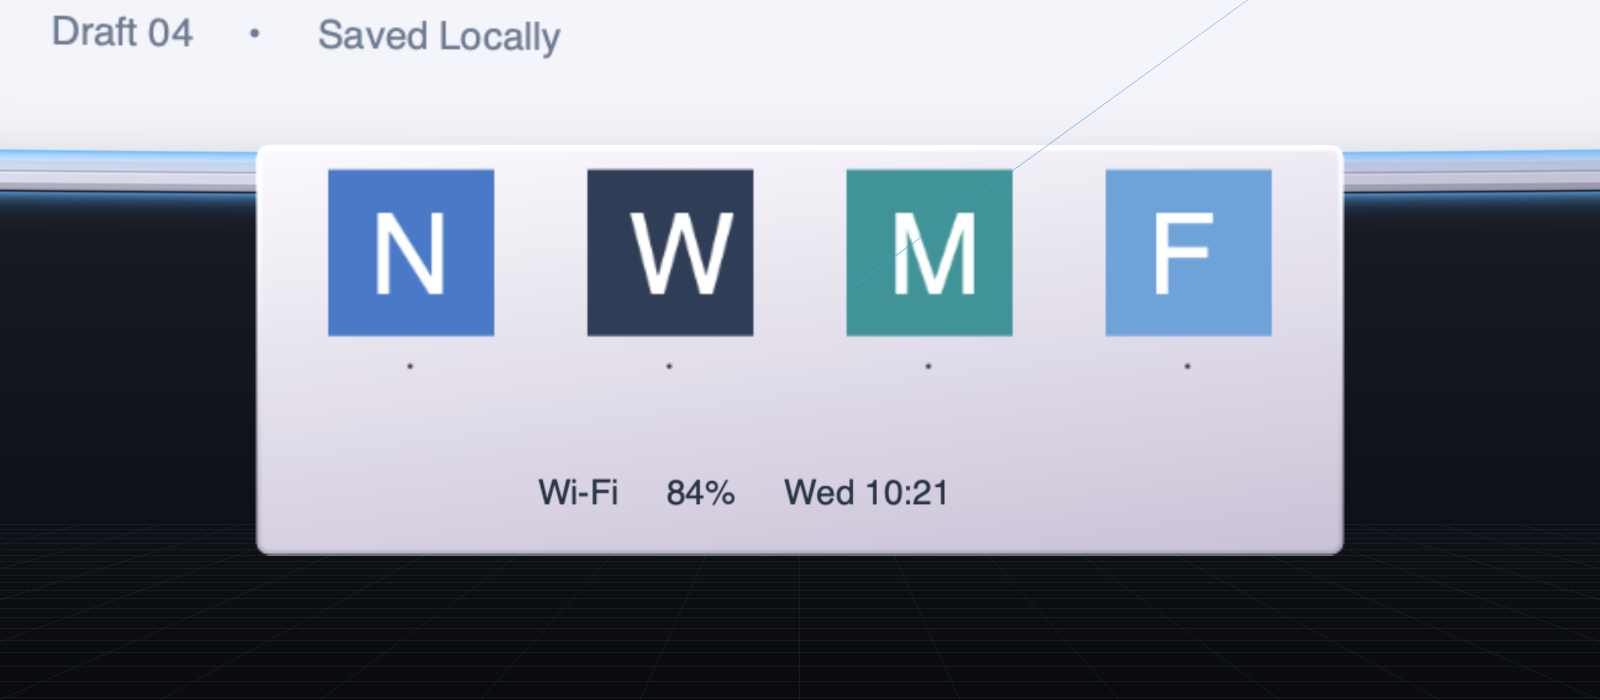
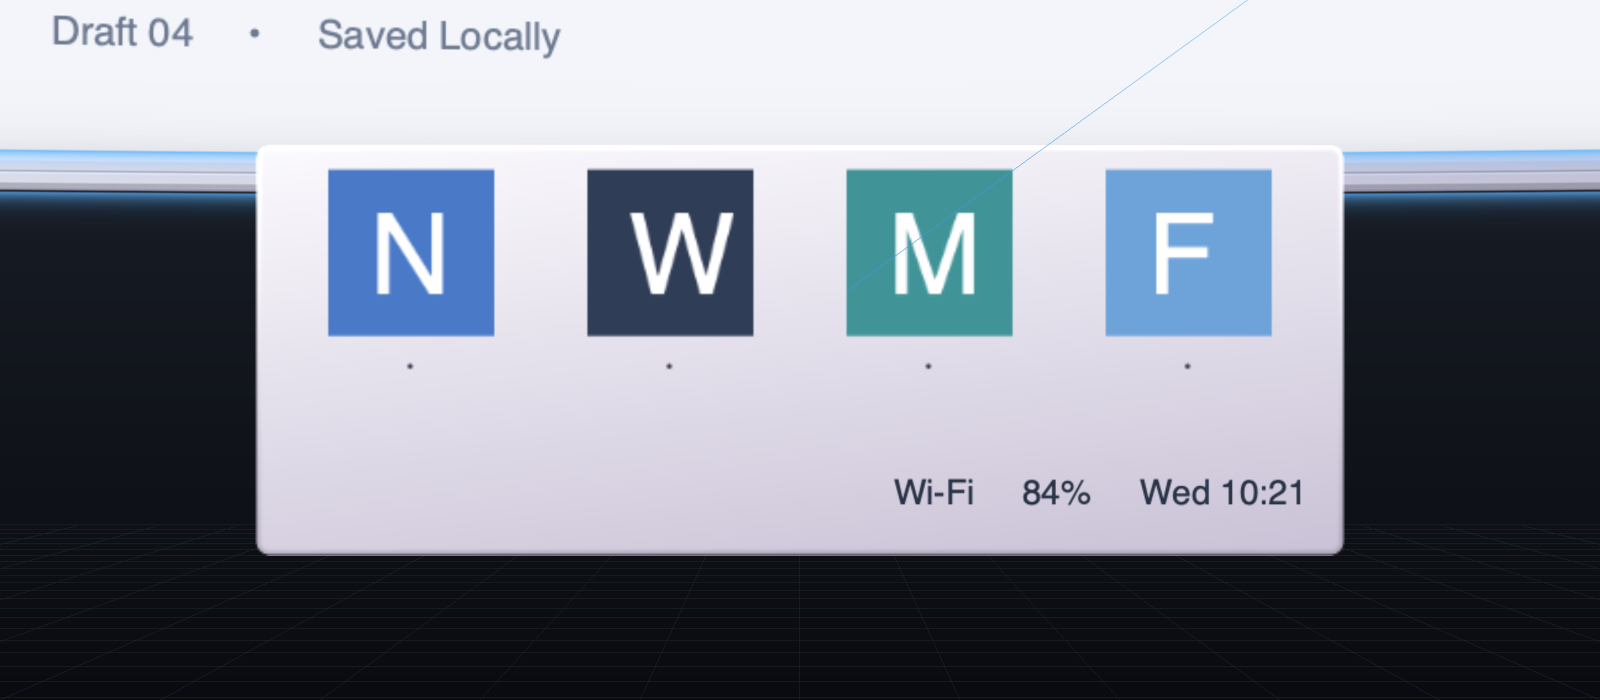
fix(native): tight status fixture so the shelf band shows it right-aligned

Changed region(s): [[0.3125, 0.66, 0.8125, 0.72]]

diff --git a/native/scene/generate-fixtures.py b/native/scene/generate-fixtures.py
@@ -72,7 +72,7 @@ def main():
     for i,(name,letter,color) in enumerate([('notes','N',(.29,.48,.78,1)),('workbench','W',(.19,.24,.34,1)),('metrics','M',(.25,.58,.59,1)),('files','F',(.43,.64,.85,1))]):
         image(name+'-icon.png',128,128,lambda b,t,l=letter,c=color:(b(10,10,108,108,c),t(37,91,l,73,(1,1,1,1))))
     image('menubar.png',1200,60,lambda b,t:t(22,41,'Notes     File     Edit     View     Format     Window     Help',27))
-    image('status.png',660,60,lambda b,t:t(18,40,'Wi-Fi     84%     Wed 10:21',28))
+    image('status.png',372,60,lambda b,t:t(18,40,'Wi-Fi     84%     Wed 10:21',28))
     image('dropdown.png',440,380,lambda b,t:[t(28,52+i*66,v,28) for i,v in enumerate(['New Note','Open…','Recent Notes','Save','Export…'])])
 
     def placement(x,z,yaw,width,bend):
@@ -87,7 +87,7 @@ def main():
         dict(id='metrics',role='window',placement=placement(1.10,-1.85,-28,1.10,dict(vertical=False,a=.04,b=.18)),texture='metrics.png',focusGlow=.20)],
         apps=[dict(id=name,name=name.title(),icon=name+'-icon.png') for name in ['notes','workbench','metrics','files']],
         menubar=auxiliary('menubar.png',[0,0,600,30],hot=True,menusWidth=600),
-        status=auxiliary('status.png',[0,0,330,30]),
+        status=auxiliary('status.png',[0,0,186,30]),
         dropdown=auxiliary('dropdown.png',[66,30,220,190],'menubar',[0,0,600,30]))
     (ROOT/'example.json').write_text(json.dumps(scene,indent=2)+'\n')
     # A slim strip is the resting state: production MenuStripReveal expands while
